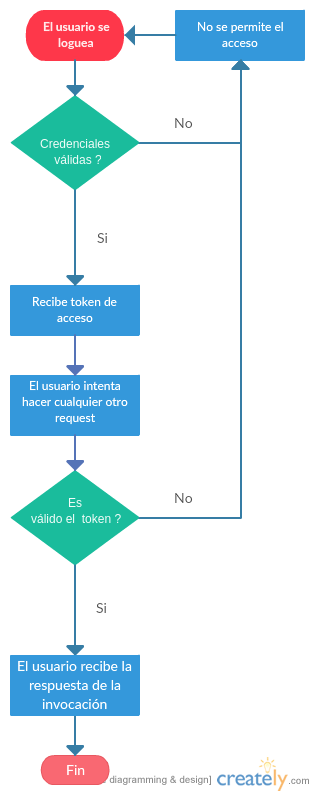
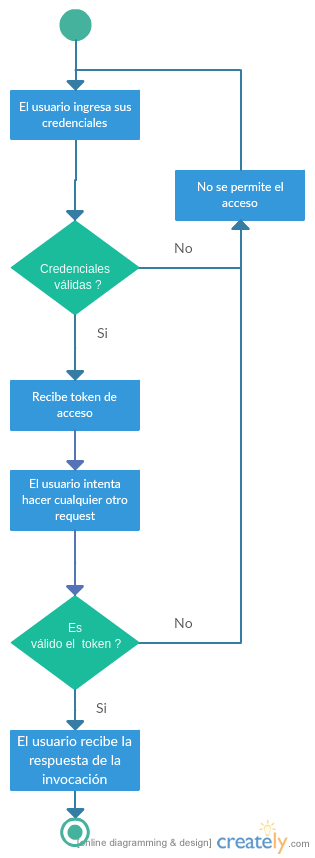
Issue #51: Se agrega documentación de la app móvil. Se agrega un diagrama de flujo del manejo de un request en el app server.

diff --git a/documentacion/index.rst b/documentacion/index.rst
@@ -6,11 +6,6 @@
 Bienvendio a la Documentación de Tinder
 ==============================================
 
-Contenidos:
-
-.. toctree::
-   :maxdepth: 2
-
 Página de Búsquedas
 ==============================================
 
@@ -140,6 +135,11 @@ Diagrama de Flujo
 .. image:: ./images/AppServer-ControlSesion.png
    :align: center
 
+* Diagrama de Flujo de Manejo de un Request
+
+.. image:: ./images/AppServer-ManejoRequests.png
+   :align: center
+
 #################################
 Shared Server
 #################################
@@ -220,3 +220,91 @@ Correr Server Local
 API Web
 -------------------
 * Consultar `interfaz web Shared Server <https://docs.google.com/document/d/1xRC2wTo4CRqe-7736FFCgLUOsSzKJn2EOubYEawvf50/edit?usp=sharing>`_ .
+
+================================
+Documentación Técnica
+================================
+
+* TBD
+
+#################################
+App Móvil
+#################################
+
+El cliente es una aplicación desarrollada en android que ofrece al usuario la posibilidad de:
+
+* Loguearse mediante facebook (utilizando sus APIs).
+* Dar Like o no a gente cercana que cumple con las caracteristicas establecidas por el usuario.
+* Mostrar matches con personas.
+* Establecer una comunicación con los matches.
+* Configurar los filtros mediante los cuales se regula que personas se le son mostradas al usuario.
+* Ver y editar el perfil del usuario.
+
+================================
+Documentación de Instalación
+================================
+
+--------------------------------------
+Ejecutar y Probar la Aplicación
+--------------------------------------
+
+^^^^^^^^^^^^^^^^^^^^^^^^^^^^
+Condiciones
+^^^^^^^^^^^^^^^^^^^^^^^^^^^^
+
+La aplicación android se ha probado bajo las siguientes condiciones:
+
+* Corriendo en un smartphone con Android con una versión igual o superior a la 4.0. (Cerca del 90% de los teléfonos en el mercado cumplen con esto según la documentación de Android).
+* El teléfono sobre el que se corre la aplicación tiene una conexión a internet disponible.
+* El teléfono está conectado a la misma red wifi que la computadora donde se está corriendo el servidor al que le envía requests.
+* El servidor al que le envía requests es un MockServer que corre en localhost y tiene respuestas predefinidas para probar la aplicación. 
+* Para poder correr este servidor se necesita instalar las dependencias, por lo que dentro de la carpeta /MockServer se debe ejecutar el comando sudo npm install.
+* El servidor debe estar corriendo en la dirección ip de la red 192.168.1.106 o en su defecto, se deberá cambiar dicha dirección ip en el archivo Constants.java en el atributo publico `IP_SERVER`. (Esto se debe hacer así por el momento debido a la falta de conocimiento de cómo tener un archivo de configuración para la aplicación).
+
+Para instalar y correr la aplicación en un teléfono, se debe copiar el apk disponible en el repositorio a alguna carpeta del teléfono e instalarlo.
+
+^^^^^^^^^^^^^^^^^^^^^^^^^^^^
+Clonar Branch
+^^^^^^^^^^^^^^^^^^^^^^^^^^^^
+
+Para descargar el branch y empezar a desarrollar sobre el mismo se debe ejecutar en la linea de comandos:
+
+ * ``git clone -b App https://github.com/juandausa/tinder.git App``
+
+^^^^^^^^^^^^^^^^^^^^^^^^^^^^^^^^^^^^^
+Requerimientos para su Uso
+^^^^^^^^^^^^^^^^^^^^^^^^^^^^^^^^^^^^^
+
+* Instalar el IDE `Android Studio <https://developer.android.com/sdk/>`_ .
+* Instalar todas las librerias de la 23 en adelante desde el SDK Manager (dentro del Android Studio).
+
+^^^^^^^^^^^^^^^^^^^^^^^^^^^^^^^^^^^^^^^^^^^^^^^^^^^^^^^^^^^^^^^^^^^^^^^^^^^^^^^^^^^^
+Chequeo de Estilos, Bugs, Linter, etc.
+^^^^^^^^^^^^^^^^^^^^^^^^^^^^^^^^^^^^^^^^^^^^^^^^^^^^^^^^^^^^^^^^^^^^^^^^^^^^^^^^^^^^
+
+Para chequear que todo este correcto antes de subir código al repositorio realizar los siguientes pasos:
+
+* Situarse con la consola en ``App/app/``
+* Ejecutar el comando ``./gradlew build``
+* Verificar si realizó el build correctamente. De haber fallado, observar que fué lo que falló leyendo el archivo de reportes indicado por la salida del comando que acabamos de ejecutar.
+* Corregir el problema, repetir los pasos anteriores y subir al repositorio.
+
+^^^^^^^^^^^^^^^^^^^^^^^^^^^^^^^^^^^^^
+Integración con Facebook
+^^^^^^^^^^^^^^^^^^^^^^^^^^^^^^^^^^^^^
+
+El login al cliente Android se realiza mediante facebook, por lo que es necesario realizar los siguientes pasos para lograr un login exitoso.
+
+- Generar un `key hash` para el ambiente de desarrollo de cada desarrollador. Para esto:
+    - Abrir la consola.
+    - Ejecutar el comando: ``keytool -exportcert -alias androiddebugkey -keystore ~/.android/debug.keystore | openssl sha1 -binary | openssl base64``
+    - Darle `enter` cuando pida una contraseña.
+- Dirigirse a la `sección de Ajustes del sitio web de la app en developers facebook <https://developers.facebook.com/apps/469716263220924/settings/>`_.
+- Copiar el código generado por el comando en el campo Key Hashes (sin borrar los que ya se encuentran).
+- Guardar cambios.
+
+================================
+Documentación Técnica
+================================
+
+* TBD
